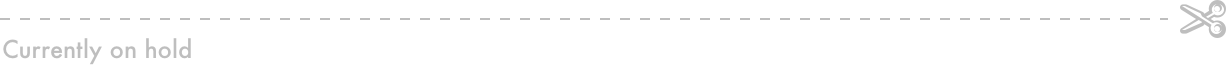
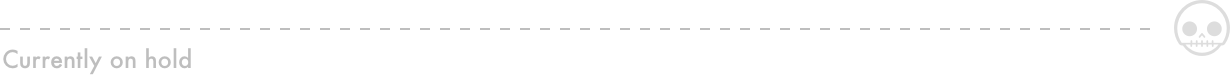
Updates seperator

Changed region(s): [[0.0, 0.0, 1.0, 0.7273], [0.0, 0.6061, 0.155, 0.9091], [0.124, 0.5758, 0.155, 0.6364]]

diff --git a/index.html b/index.html
@@ -31,8 +31,8 @@
 	    }
 
 	    .seperator {
-		    width: 617px;
-		    height: 32px;
+		    width: 615px;
+		    height: 37px;
 		    margin-top: 64px;
 		    margin-bottom: 32px;
 	    }

diff --git a/notekit.html b/notekit.html
@@ -30,8 +30,8 @@
 	    }
 
 	    .seperator {
-		    width: 617px;
-		    height: 32px;
+		    width: 615px;
+		    height: 37px;
 		    margin-top: 64px;
 		    margin-bottom: 32px;
 	    }
